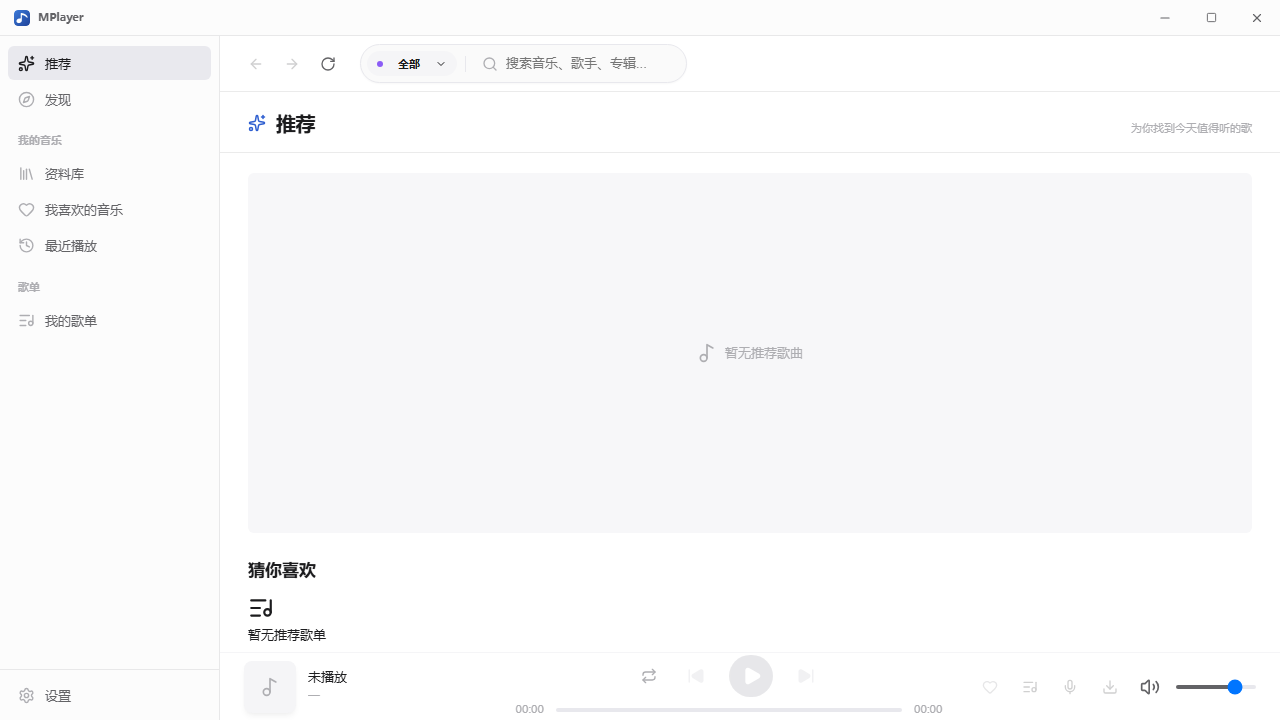
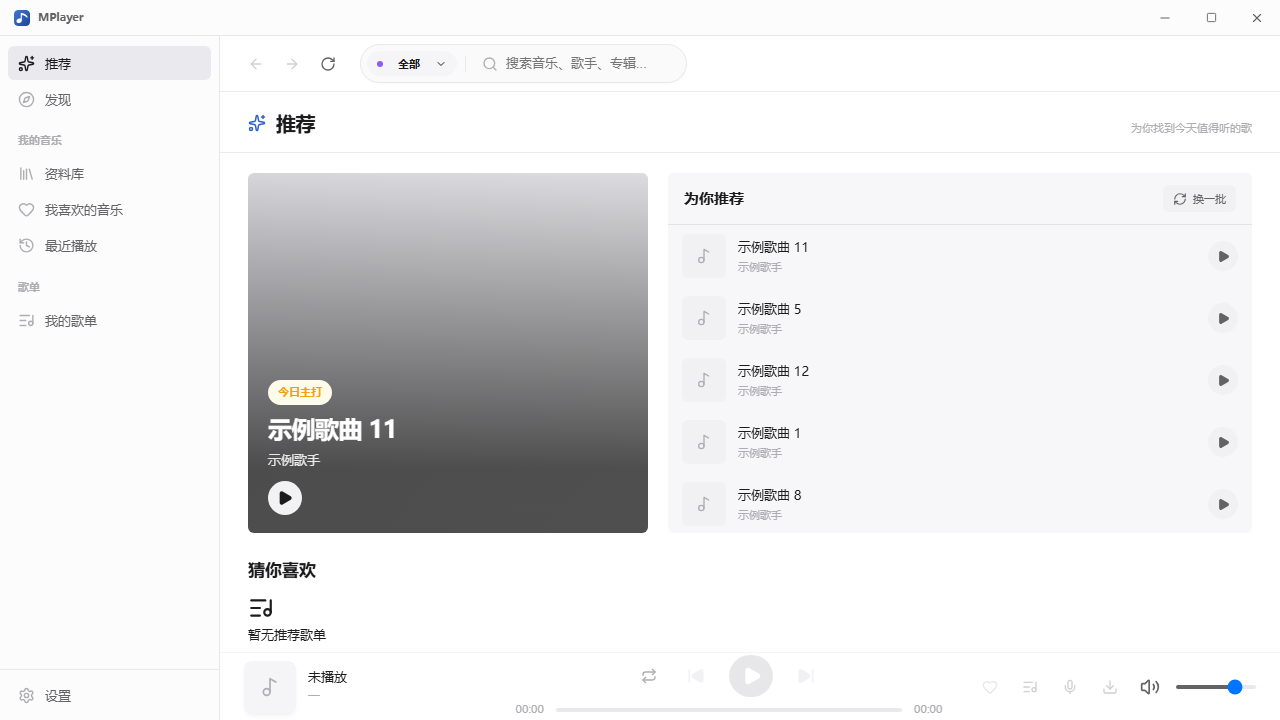
fix(ui): 专辑详情页 JSX 里泄漏的块注释；截图补到 15 页 (#690)

diff --git a/e2e/ui-rewrite-shots.spec.ts b/e2e/ui-rewrite-shots.spec.ts
@@ -13,18 +13,42 @@ const ROUTES: Array<[string, string, string]> = [
   ['ui-09-history', '/#/history', '最近播放'],
   ['ui-10-queue', '/#/queue', '播放队列'],
   ['ui-11-local', '/#/local', '本地音乐'],
+  ['ui-12-album', '/#/album/a1', '专辑详情'],
+  ['ui-13-artist', '/#/artist/ar1', '歌手详情'],
+  ['ui-14-hotlist', '/#/hotlist/netease:hot', '热榜详情'],
+  ['ui-15-playlist', '/#/playlist/7', '歌单详情'],
 ];
 
 test.beforeEach(async ({ page }) => {
   // 渲染层只经 window.electronAPI 通信：给最小 stub，让页面不因缺桥而白屏
   await page.addInitScript(() => {
     const noop = async () => undefined;
+    const song = (i: number) => ({ id: 'n' + i, name: '示例歌曲 ' + i, artist: '示例歌手', album: '示例专辑', duration: 240, sourceType: 'netease', url: '', cover: '', lrc: '' });
+    const songs = Array.from({ length: 12 }, (_, i) => song(i + 1));
+
     (window as unknown as { electronAPI: Record<string, unknown> }).electronAPI = {
-      invoke: async (channel: string) => {
+      invoke: async (channel: string, ...args: unknown[]) => {
+        // musicApi 单通道分发：详情页都靠它取数
+        if (channel === 'musicApi:call') {
+          const method = args[0] as string;
+          if (method === 'getAlbumDetail') return { album: { id: 'a1', name: '示例专辑', artist: '示例歌手', picUrl: '', publishTime: String(Date.now()), description: '示例专辑简介' }, songs };
+          if (method === 'getArtistSongs') return { songs, total: songs.length };
+          if (method === 'getArtistAlbums') return { albums: [], total: 0, more: false, ok: true };
+          if (method === 'getToplists') return [{ source: 'netease', sourceId: 'hot', sourceName: '网易云', groups: [{ key: 'hot', name: '热歌榜', songs }] }];
+          if (method === 'getPlaylistSongs') return { songs, total: songs.length };
+          if (method === 'getToplistSongs') return { songs, groups: [] };
+          // 按方法给精确结构：一刀切的默认值会让 playlists.map / songs[0] 这类读法抛错
+          if (method === 'getRecommendedPlaylists') return [];
+          if (method === 'getRecommendedSongs') return songs;
+          if (method === 'getDailySongs') return { songs };
+          return { songs, total: songs.length, albums: [], artists: [], more: false, ok: true };
+        }
         if (channel === 'update:getVersion') return '1.9.0';
         if (channel === 'settings:getThemeMode') return 'system';
         if (channel === 'history:get') return [];
         if (channel === 'playlist:getAll') return [];
+        if (channel === 'playlist:get') return { id: 7, name: '示例歌单', description: '示例简介', cover: '', songCount: songs.length };
+        if (channel === 'playlist:getSongs') return songs;
         if (channel === 'settings:getSourceModes') return { status: {} };
         if (channel === 'getArtists') return { artists: [], more: false };
         if (channel === 'cache:getStats') return { totalSize: 0, fileCount: 0, songsCount: 0, coversCount: 0, audioCount: 0, urlsCount: 0 };

diff --git a/src/renderer/pages/AlbumDetailPage.tsx b/src/renderer/pages/AlbumDetailPage.tsx
@@ -103,11 +103,7 @@ const AlbumDetailPage: React.FC = () => {
         <h1 className="detail-page__nav-title">{displayName || '专辑'}</h1>
         <div className="album__spacer" />
       </div>
-      /**
-       * 专辑卡片区:固定不滚动(所以下面滚动容器的 padding-top 是 0)。
-       * 注意:SongList 的表头是 sticky 的,它靠 stickyTopForContent() 对齐滚动容器的**内容区**上边,所
-       * 以这里给不给 padding-top 表头都不会错位了。
-       */
+      {/* 专辑卡片区固定不滚动；SongList 表头靠 stickyTopForContent 对齐内容区，无需 padding-top */}
       <div className="album__head">
         <div className="album__card">
           <div className="album__cover">
